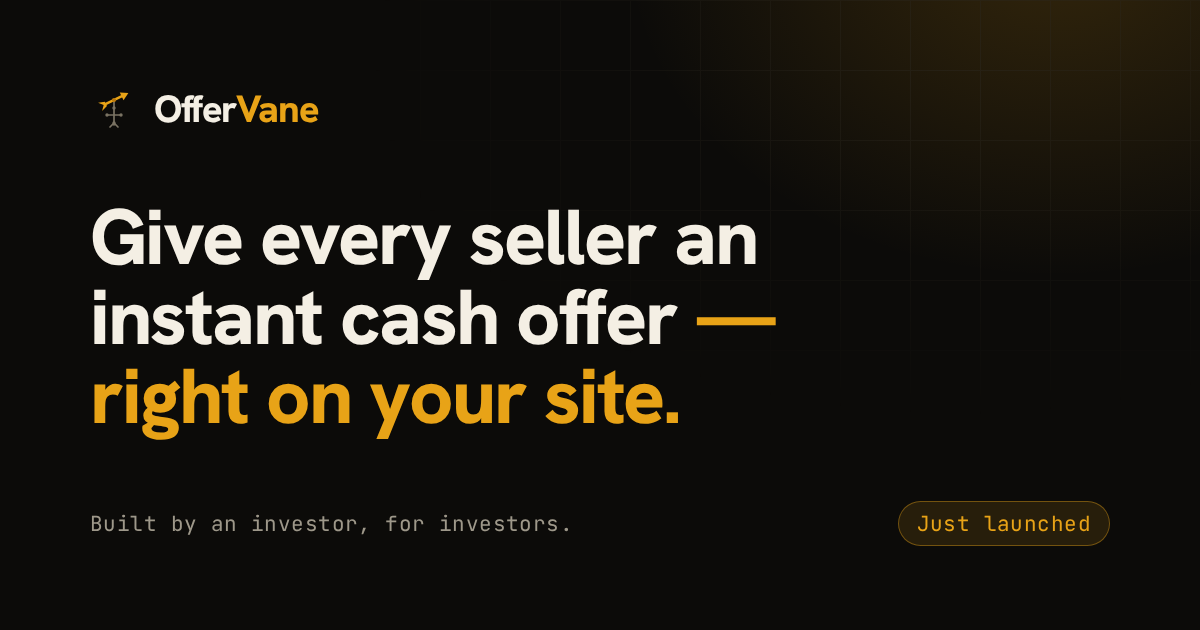
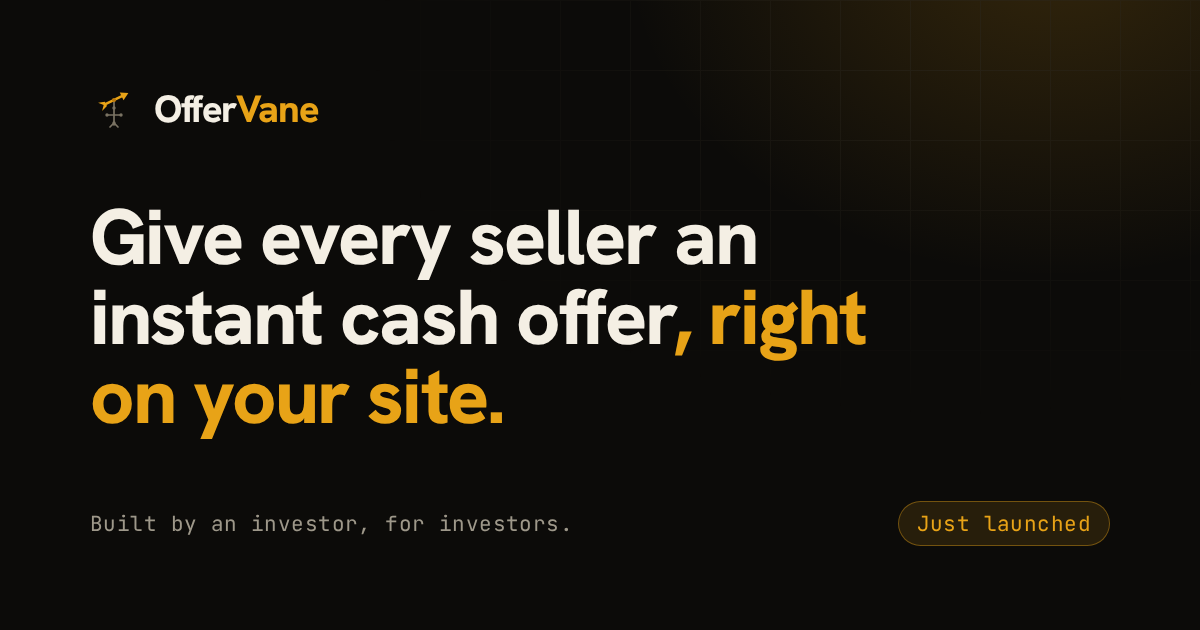
marketing site: remove em dashes + copy polish
1. Removed every em dash across the site (read as an AI tell, undercuts the
   "built by a real investor" credibility). Rewrote each line as natural human
   prose using periods, commas, or parentheses (not en dashes / " - "): meta
   title, OG + Twitter tags, hero, problem/how-it-works, math lede, device
   notes, rules, install, pricing, founder story + signature, proofless, final
   CTA, and the in-file HTML comments. Built dist verified em-dash-free.
2. Founder portrait: removed the "Add founder-headshot.jpg" placeholder caption
   so nothing looks unfinished; kept the MK monogram as the intentional element
   and restored the <img onerror> auto-swap so dropping public/founder-headshot.jpg
   replaces the monogram with no code change.
3. Copy tightening: pricing "no card games, just the trial" -> "No credit card
   required to start"; founder facts aligned to the section's first-person voice
   ("Built it for my own deals first").

Logomark (weathervane placeholder) left untouched per the swap-ready plan.
Regenerated og.png. Design system, layout, and noindex unchanged.

Changed region(s): [[0.0617, 0.573, 0.5858, 0.6937], [0.555, 0.4524, 0.74, 0.573]]

diff --git a/index.html b/index.html
@@ -6,7 +6,7 @@
     <meta name="theme-color" content="#0C0B09" />
 
     <!-- ===== SEO ===== -->
-    <title>OfferVane — Instant cash offers on your site, for investors</title>
+    <title>OfferVane: instant cash offers on your site, for investors</title>
     <meta
       name="description"
       content="An embeddable instant-cash-offer widget for fix-and-flip, BRRRR, and wholesale investors. Sellers get a real offer in seconds; you capture the lead. Built by an investor, for investors."
@@ -17,7 +17,7 @@
     <!-- ===== Open Graph / social ===== -->
     <meta property="og:type" content="website" />
     <meta property="og:site_name" content="OfferVane" />
-    <meta property="og:title" content="Give every seller an instant cash offer — right on your site." />
+    <meta property="og:title" content="Give every seller an instant cash offer, right on your site." />
     <meta
       property="og:description"
       content="Embeddable instant-cash-offer widget for real estate investors. Sellers respond faster to a real number; you catch the lead before they ghost. Built by an investor, for investors."
@@ -27,10 +27,10 @@
     <meta property="og:image:width" content="1200" />
     <meta property="og:image:height" content="630" />
     <meta name="twitter:card" content="summary_large_image" />
-    <meta name="twitter:title" content="OfferVane — instant cash offers on your site" />
+    <meta name="twitter:title" content="OfferVane: instant cash offers on your site" />
     <meta
       name="twitter:description"
-      content="Turn site visitors into cash-offer leads. Built by a BRRRR investor, for investors. Just launched — founding members get in first."
+      content="Turn site visitors into cash-offer leads. Built by a BRRRR investor, for investors. Just launched. Founding members get in first."
     />
     <meta name="twitter:image" content="https://offervane.com/og.png" />
 
@@ -57,7 +57,7 @@
   </head>
   <body>
     <!-- =================================================================
-         LogoMark — SINGLE SOURCE OF TRUTH for the small OfferVane mark.
+         LogoMark: SINGLE SOURCE OF TRUTH for the small OfferVane mark.
          TODO: replace placeholder with Michael's weathervane SVG.
          Paste your finished mark inside this <symbol> (keep id="ov-logomark";
          keep the "0 0 48 48" viewBox, or adjust the <use> sizes below) and it
@@ -128,13 +128,13 @@
           <div class="hero__copy">
             <p class="eyebrow reveal">Instant cash offers, on your site</p>
             <h1 class="hero__h reveal" data-delay="1">
-              Give every seller an instant cash offer —
+              Give every seller an instant cash offer,
               <span class="amber-text">right on your site.</span>
             </h1>
             <p class="hero__sub reveal" data-delay="2">
               OfferVane is an embeddable widget for fix-and-flip, BRRRR, and wholesale
               investors. A seller enters their address, sees a real cash offer in seconds,
-              and lands in your dashboard as a lead — before they ghost you for someone else.
+              and lands in your dashboard as a lead, before they ghost you for someone else.
             </p>
             <div class="hero__cta reveal" data-delay="3">
               <a class="btn btn--amber btn--lg" href="#" data-cta="hero">Start free trial</a>
@@ -147,7 +147,7 @@
 
           <!-- signature: the weathervane, pointing toward the deal -->
           <div class="hero__vane reveal" data-delay="2" aria-hidden="true">
-            <!-- ===== HERO weathervane illustration — PLACEHOLDER =========
+            <!-- ===== HERO weathervane illustration (PLACEHOLDER) =========
                  TODO: replace placeholder with Michael's weathervane SVG (large hero art).
                  This is a SEPARATE, larger asset from the small header LogoMark above.
                  Swap everything inside <div class="vane"> below with your finished
@@ -237,8 +237,8 @@
               <div class="step__body">
                 <h3>Drop the widget on your site.</h3>
                 <p>
-                  Paste one snippet. It works on whatever you've already got — WordPress, Webflow,
-                  Carrd, a plain HTML page — and inherits your brand instead of fighting it.
+                  Paste one snippet. It works on whatever you've already got (WordPress, Webflow,
+                  Carrd, a plain HTML page) and inherits your brand instead of fighting it.
                 </p>
               </div>
             </li>
@@ -248,7 +248,7 @@
                 <h3>A seller enters their info.</h3>
                 <p>
                   Their address and a few quick questions about the property. No account, no
-                  friction — the kind of short form people actually finish.
+                  friction. The kind of short form people actually finish.
                 </p>
               </div>
             </li>
@@ -274,7 +274,7 @@
             <p class="eyebrow reveal">The math · what the seller sees</p>
             <h2 class="section__h reveal">Offers you can stand behind, built from real comps.</h2>
             <p class="section__lede reveal">
-              No black box. Every offer follows one honest line of math — with rules you set —
+              No black box. Every offer follows one honest line of math, with rules you set,
               so it's a number you can explain to a seller without flinching.
             </p>
           </header>
@@ -306,7 +306,7 @@
                     <span class="breakdown__v amber-text">$176,400</span>
                   </div>
                 </div>
-                <p class="device__note">Example breakdown — sample numbers, shown to demonstrate the product.</p>
+                <p class="device__note">Example breakdown with sample numbers, shown to demonstrate the product.</p>
               </div>
             </figure>
 
@@ -345,7 +345,7 @@
                     <span><em>Est. repairs</em>$36k</span>
                   </div>
                 </div>
-                <p class="device__note">Example UI with sample data — not a real seller.</p>
+                <p class="device__note">Example UI with sample data, not a real seller.</p>
               </div>
             </figure>
           </div>
@@ -360,7 +360,7 @@
             <h2 class="section__h reveal">Tune the offer to your market and your model.</h2>
             <p class="section__lede reveal">
               70% gets you a deal in one market and laughed out of another. OfferVane lets you set
-              your own offer percentage and your repair-cost model — by property condition — so every
+              your own offer percentage and your repair-cost model by property condition, so every
               offer reflects how <em>you</em> actually buy. Change a number; every future offer updates.
             </p>
             <p class="rules__tag reveal amber-text">Your deal. Your math.</p>
@@ -384,7 +384,7 @@
                   <div class="ctrl__row"><span>Heavy</span><span class="ctrl__val">$55 / sq ft</span></div>
                 </div>
               </div>
-              <p class="device__note">Example controls — the two dials the engine uses today: your ARV multiplier and your repair cost per sq ft by condition. Set them once; they apply to every offer.</p>
+              <p class="device__note">Example controls. The two dials the engine uses today: your ARV multiplier, and your repair cost per sq ft by condition. Set them once; they apply to every offer.</p>
             </div>
           </figure>
         </div>
@@ -397,8 +397,8 @@
             <p class="eyebrow reveal">Easy install</p>
             <h2 class="section__h reveal">Copy, paste, done.</h2>
             <p class="section__lede reveal">
-              One snippet in your site's HTML. No developer, no plugin to wrangle, no rebuild —
-              drop the form wherever you want it and point it at your investor ID.
+              One snippet in your site's HTML. No developer, no plugin to wrangle, no rebuild.
+              Drop the form wherever you want it and point it at your investor ID.
             </p>
           </header>
 
@@ -415,7 +415,7 @@
 <span class="c-t">&lt;script&gt;</span>
   OfferVaneLib.mount(<span class="c-s">'offervane-form'</span>, <span class="c-s">'YOUR_INVESTOR_ID'</span>)
 <span class="c-t">&lt;/script&gt;</span></code></pre>
-            <p class="snippet__note">Illustrative — you'll get your own widget URL and <code>INVESTOR_ID</code> when you start a trial.</p>
+            <p class="snippet__note">Illustrative. You'll get your own widget URL and <code>INVESTOR_ID</code> when you start a trial.</p>
           </div>
         </div>
       </section>
@@ -434,18 +434,18 @@
               <span class="price__amount"><span class="price__cur">$</span>500</span>
               <span class="price__per">/ month</span>
             </div>
-            <p class="price__free">First month free — no card games, just the trial.</p>
+            <p class="price__free">First month free. No credit card required to start.</p>
             <ul class="price__list">
               <li>Unlimited offers and leads</li>
               <li>Your own offer rule and repair-cost model</li>
               <li>Real-comp ARV on every offer</li>
               <li>Embeddable widget for any site</li>
               <li>Investor dashboard with full lead detail</li>
-              <li>A direct line to the founder — you're early, your feedback shapes it</li>
+              <li>A direct line to the founder, because you're early and your feedback shapes it</li>
             </ul>
             <a class="btn btn--amber btn--lg btn--block" href="#" data-cta="pricing">Start free trial</a>
             <p class="price__fine">
-              No tiers, no upsells, no per-lead fees — one honest price while we're new. Cancel anytime.
+              No tiers, no upsells, no per-lead fees. One honest price while we're new. Cancel anytime.
             </p>
           </div>
         </div>
@@ -455,20 +455,27 @@
       <section class="section" id="founder">
         <div class="wrap founder">
           <figure class="founder__portrait reveal">
-            <!-- swap monogram for founder-headshot.jpg when ready:
-                 replace the <span class="founder__monogram"> below with
-                 <img class="founder__photo" src="founder-headshot.jpg"
-                      alt="Michael Krontz, founder of OfferVane" width="480" height="600"> -->
             <div class="founder__frame">
+              <!-- Drop public/founder-headshot.jpg to auto-replace the monogram.
+                   Until then the img removes itself (onerror) and the MK monogram shows. -->
+              <img
+                class="founder__photo"
+                src="founder-headshot.jpg"
+                alt="Michael Krontz, founder of OfferVane"
+                width="480"
+                height="600"
+                loading="lazy"
+                onerror="this.remove()"
+              />
               <span class="founder__monogram" aria-hidden="true">MK</span>
             </div>
             <figcaption class="founder__id">
-              <!-- TODO: MICHAEL — confirm your name (also used in the signature below) -->
+              <!-- TODO: MICHAEL, confirm your name (also used in the signature below) -->
               <span class="founder__name">Michael Krontz</span>
               <ul class="founder__facts">
                 <li>20 years designing software</li>
                 <li>Active BRRRR investor</li>
-                <li>Built for his own deals first</li>
+                <li>Built it for my own deals first</li>
               </ul>
             </figcaption>
           </figure>
@@ -478,7 +485,7 @@
             <h2 class="section__h reveal">Built by an investor, for investors.</h2>
             <div class="founder__story reveal">
               <p>
-                I'm a product designer with 20 years of shipping software — and an active BRRRR
+                I'm a product designer with 20 years of shipping software, and an active BRRRR
                 investor. I built OfferVane because I needed it. I was losing motivated sellers to
                 whoever called back first, and pulling offers by hand was never fast enough.
               </p>
@@ -487,14 +494,14 @@
                 with math I set and could defend to a seller's face.
               </p>
               <p>
-                OfferVane just launched. It's new, and I'm not going to pretend otherwise — but
+                OfferVane just launched. It's new, and I'm not going to pretend otherwise. But
                 that's exactly the opportunity. Get in as a founding member and you've got a direct
                 line to the person building it, and a say in where it goes next.
               </p>
             </div>
             <p class="founder__sign reveal">
-              <!-- TODO: MICHAEL — confirm your name -->
-              — Michael Krontz, Founder of OfferVane
+              <!-- TODO: MICHAEL, confirm your name -->
+              Michael Krontz, Founder of OfferVane
             </p>
           </div>
         </div>
@@ -504,7 +511,7 @@
       <section class="section section--alt proofless" id="early">
         <div class="wrap proofless__inner reveal">
           <p class="eyebrow">Be one of the first</p>
-          <h2 class="proofless__h">No testimonials here yet — because we just launched.</h2>
+          <h2 class="proofless__h">No testimonials here yet, because we just launched.</h2>
           <p class="proofless__p">
             We could fill this space with made-up quotes and logos. We won't. Real results from real
             investors will live here as founding members put OfferVane to work. Want your deal to be
@@ -524,7 +531,7 @@
           </span>
           <h2 class="finalcta__h reveal">Start your free trial.</h2>
           <p class="finalcta__p reveal">
-            Put a real cash offer on your site this week. First month's on us — founding-member
+            Put a real cash offer on your site this week. First month's on us, with founding-member
             pricing while we're new.
           </p>
           <a class="btn btn--amber btn--lg reveal" href="#" data-cta="final">Start free trial</a>

diff --git a/.ogsrc/og.html b/.ogsrc/og.html
@@ -81,7 +81,7 @@
       </svg>
       <span class="word">Offer<span class="vane">Vane</span></span>
     </div>
-    <h1>Give every seller an instant cash offer <span class="a">— right on your site.</span></h1>
+    <h1>Give every seller an instant cash offer<span class="a">, right on your site.</span></h1>
     <div class="foot">
       <span>Built by an investor, for investors.</span>
       <span class="pill">Just launched</span>